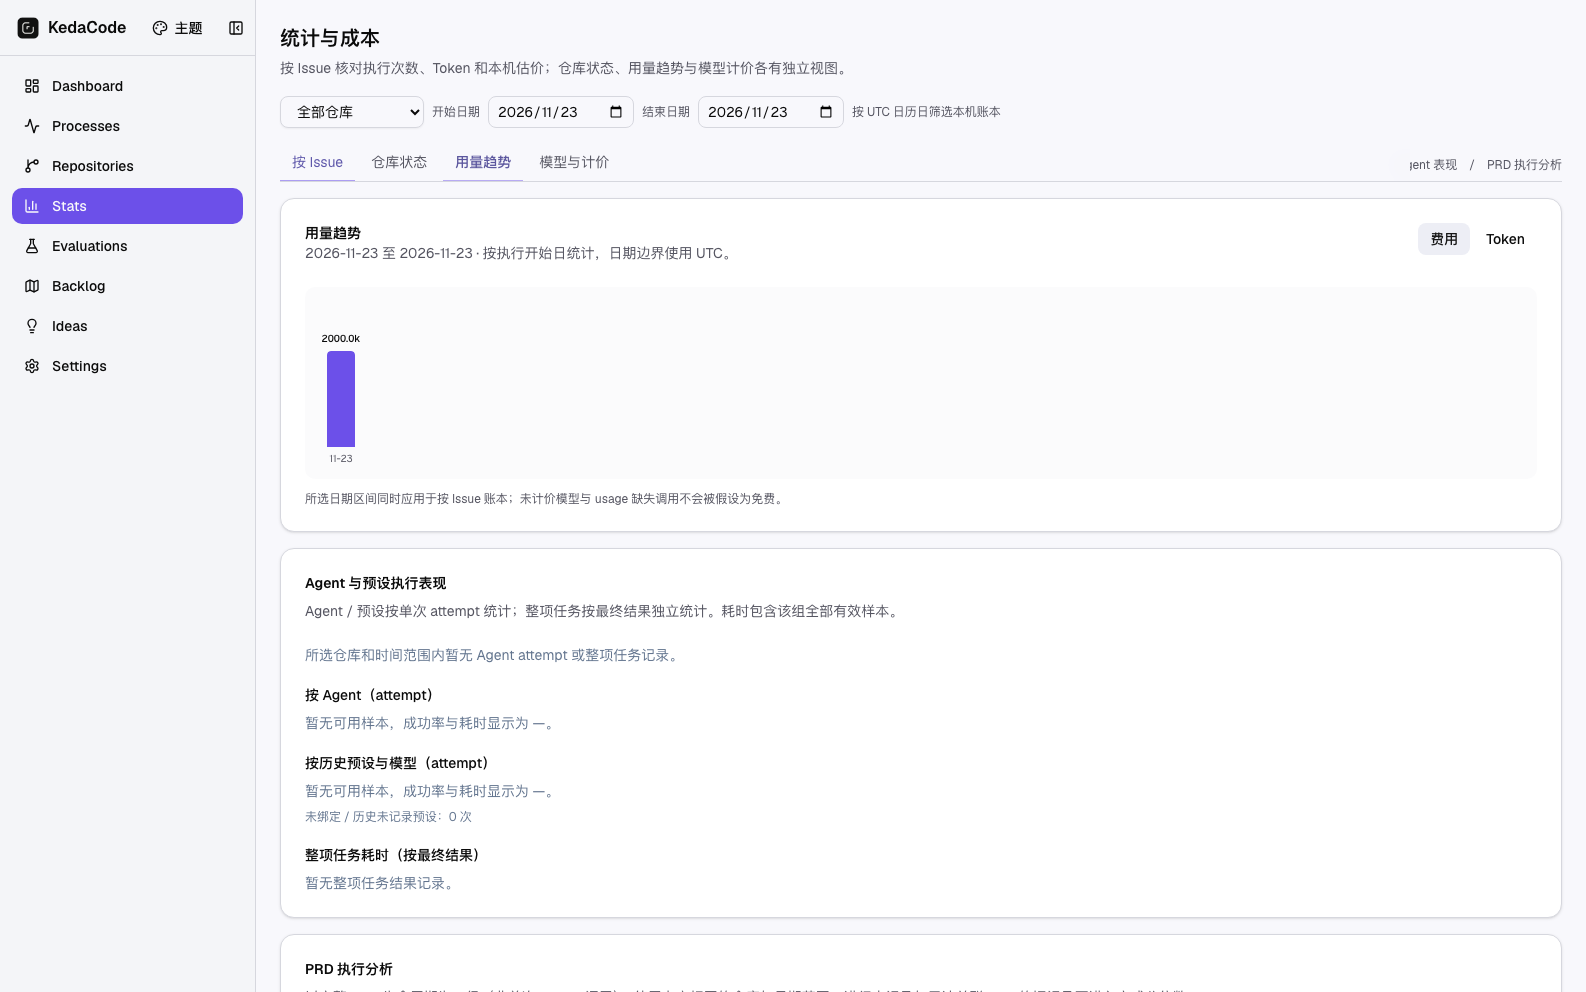
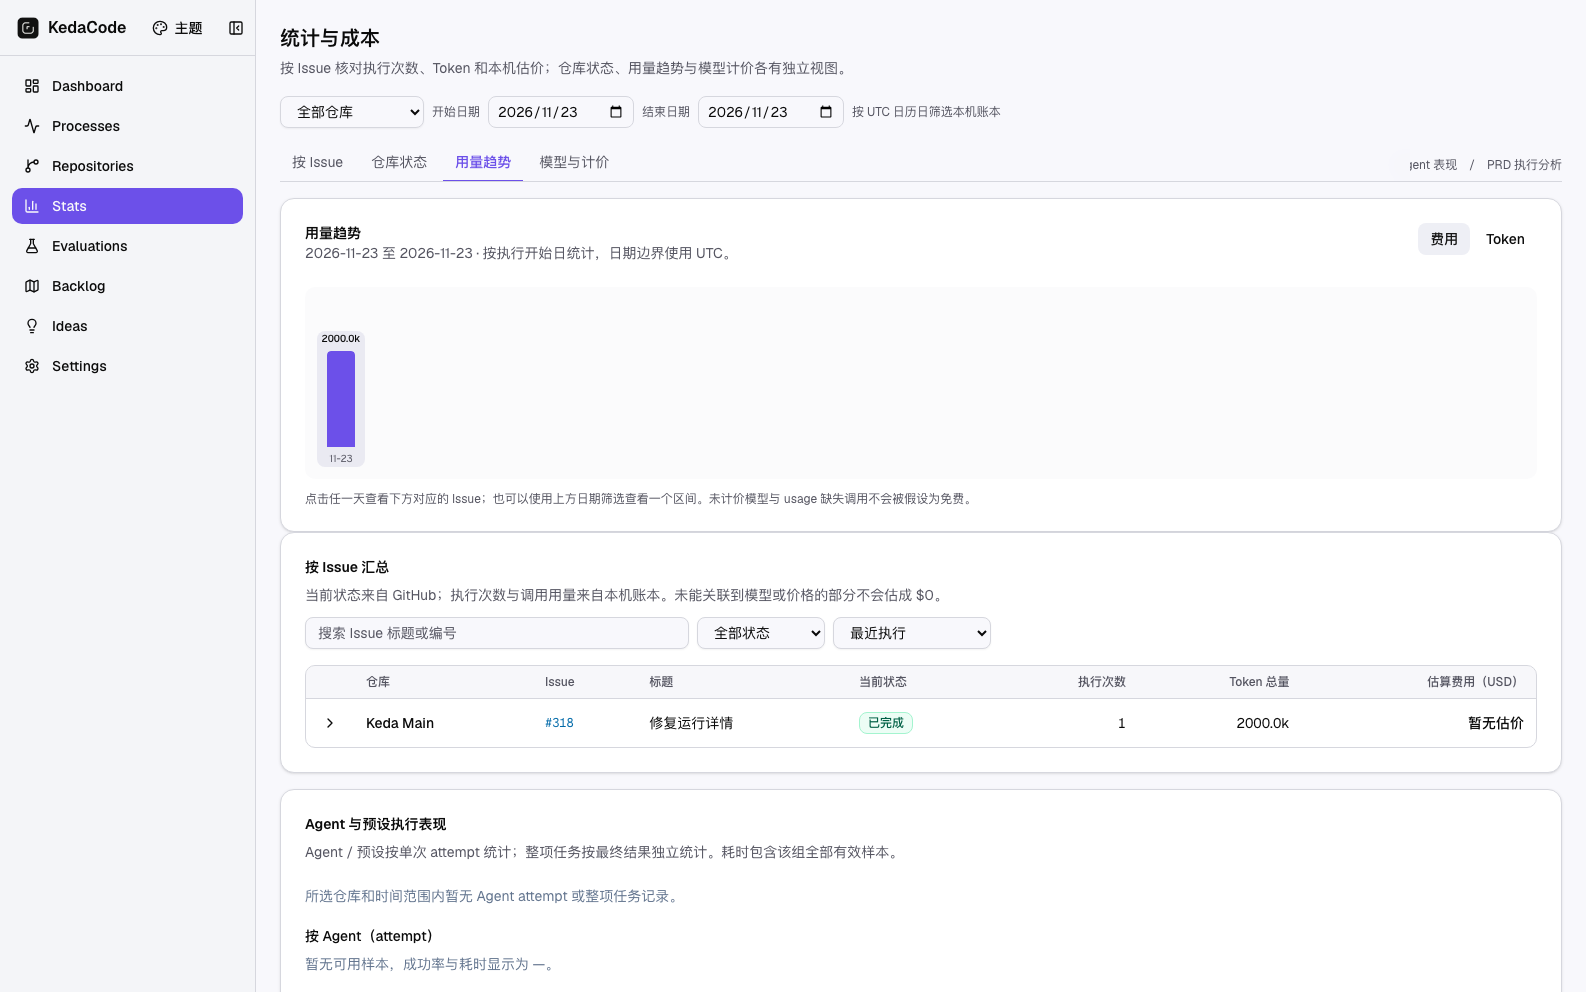
fix(stats): link trend dates to issue costs
Connect date selection to the ledger and validate production pricing from SQLite-backed Console responses.

diff --git a/tests/playwright-e2e/tests/smoke/stats-issue-cost-ledger.no-auth.spec.ts b/tests/playwright-e2e/tests/smoke/stats-issue-cost-ledger.no-auth.spec.ts
@@ -7,7 +7,7 @@
  */
 
 import { expect, test } from '../../fixtures/session.fixture'
-import { mkdir } from 'node:fs/promises'
+import { mkdir, readFile } from 'node:fs/promises'
 import { dirname, resolve } from 'node:path'
 import { fileURLToPath } from 'node:url'
 import type { Page, Route } from '@playwright/test'
@@ -301,9 +301,13 @@ async function fulfillJson(route: Route, responseBody: object): Promise<void> {
   })
 }
 
-async function routeStatsApi(page: Page): Promise<void> {
+async function routeStatsApi(
+  page: Page,
+  stats: object = ISSUE_STATS,
+  pricing: object = MODEL_PRICING,
+): Promise<void> {
   await page.route('**/api/v1/agent-runner/console/stats/issues*', (route) =>
-    fulfillJson(route, ISSUE_STATS),
+    fulfillJson(route, stats),
   )
   await page.route('**/api/v1/agent-runner/console/stats/agent-performance*', (route) =>
     fulfillJson(route, AGENT_PERFORMANCE),
@@ -312,7 +316,7 @@ async function routeStatsApi(page: Page): Promise<void> {
     fulfillJson(route, PRD_LIFECYCLE),
   )
   await page.route('**/api/v1/agent-runner/console/model-pricing', (route) =>
-    fulfillJson(route, MODEL_PRICING),
+    fulfillJson(route, pricing),
   )
 }
 
@@ -484,11 +488,11 @@ test.describe('Stats Issue cost ledger', () => {
     await page.goto('/app/stats')
     await expect(page.getByTestId('stats-issue-ledger')).toBeVisible()
 
-    await page.getByLabel('统计开始日期').fill('2026-11-23')
-    await page.getByLabel('统计结束日期').fill('2026-11-23')
+    await page.getByRole('tab', { name: '用量趋势' }).click()
+    await page.getByRole('button', { name: /查看 2026-11-23 的 Issue/ }).click()
     await expect.poll(() => requestedDateRanges.at(-1)).toBe('2026-11-23..2026-11-23')
     await expect(page.getByTestId('stats-issue-row-keda-main-318')).toContainText('1')
-    await page.getByRole('tab', { name: '用量趋势' }).click()
+    await expect(page.getByTestId('stats-issue-row-freshai-318')).toHaveCount(0)
     await expect(page.getByTestId('stats-usage-trend')).toContainText('2026-11-23 至 2026-11-23')
     await page.getByTestId('stats-trend-measure-tokens').click()
     await expect(page.getByTestId('stats-trend-measure-tokens')).toHaveAttribute('aria-pressed', 'true')
@@ -496,11 +500,33 @@ test.describe('Stats Issue cost ledger', () => {
 
     await page.getByRole('tab', { name: '模型与计价' }).click()
     await expect(page.getByTestId('stats-model-pricing')).toContainText('0%')
-    await expect(page.getByTestId('stats-model-pricing')).toContainText('2000.0k')
+    await expect(page.getByTestId('stats-model-pricing')).toContainText('0 / 2000.0k 已配置价格')
     await expect(page.getByTestId('stats-model-pricing')).toContainText('暂无估价')
     await expect(
       page.getByTestId('stats-model-pricing').getByRole('link', { name: '设置模型价格' }),
     ).toHaveAttribute('href', '/app/settings/')
     await captureEvidenceScreenshot(page, 'rv-3-trend-and-coverage-pricing.png')
   })
+  test('prices the SQLite-backed Console HTTP response in the production ledger', async ({ page }) => {
+    const fixturePath = process.env.KC_ISSUE_COST_HTTP_FIXTURE
+    test.skip(!fixturePath, 'Export the Console HTTP fixture from the SQLite integration test first.')
+    const fixture = JSON.parse(await readFile(fixturePath!, 'utf8'))
+    await routeStatsApi(page, fixture.stats, fixture.pricing)
+    await page.goto('/app/stats')
+    const issue = page.getByTestId('stats-issue-row-keda-main-7')
+    await expect(issue).toContainText('320')
+    await expect(issue).toContainText('$0.000750')
+    await expect(issue).toContainText('部分计价')
+    await page.getByTestId('stats-issue-expand-keda-main-7').click()
+    const executions = page.getByTestId('stats-issue-execution-row')
+    await expect(executions).toHaveCount(3)
+    await expect(executions.filter({ hasText: '$0.000425' })).toHaveCount(1)
+    await expect(executions.filter({ hasText: '$0.000325' })).toContainText('失败')
+    await expect(executions.filter({ hasText: '暂无估价' })).toHaveCount(1)
+    await page.getByTestId('stats-issue-detail-tab-models').click()
+    const models = page.getByTestId('stats-issue-model-usage')
+    await expect(models.getByRole('row').filter({ hasText: 'model-a' })).toContainText('$0.000750')
+    await expect(models.getByRole('row').filter({ hasText: '未识别模型' })).toContainText('暂无估价')
+  })
+
 })

diff --git a/frontend-public/components/stats/issue-cost-views.tsx b/frontend-public/components/stats/issue-cost-views.tsx
@@ -71,9 +71,11 @@ export function RepositoryStatusSection({
 export function UsageTrendSection({
   stats,
   pricingModels,
+  onSelectDay,
 }: {
   stats: IssueCostStats | null
   pricingModels: ModelTokenPricing[]
+  onSelectDay: (day: string) => void
 }) {
   const [measure, setMeasure] = useState<"cost" | "tokens">("cost")
   const dailyTotals = useMemo(() => buildDailyIssueTotals(stats?.repositories.flatMap((repository) => repository.issues) ?? [], pricingModels), [stats, pricingModels])
@@ -103,18 +105,26 @@ export function UsageTrendSection({
               const height = currentValue === 0 ? 2 : Math.max(4, (currentValue / maximumValue) * 100)
               const label = measure === "cost" ? formatDailyCost(dailyTotal) : formatTokenCount(dailyTotal.totalTokens)
               return (
-                <div key={dailyTotal.day} className="flex min-w-12 flex-col items-center gap-1" title={`${dailyTotal.day} · ${label} · ${dailyTotal.runCount} 次执行`} data-testid="stats-trend-day">
+                <button
+                  key={dailyTotal.day}
+                  type="button"
+                  className="flex min-w-12 flex-col items-center gap-1 rounded-md hover:bg-muted focus-visible:ring-2 focus-visible:ring-ring aria-pressed:bg-muted"
+                  aria-label={`查看 ${dailyTotal.day} 的 Issue，${label}，${dailyTotal.runCount} 次执行`}
+                  aria-pressed={stats.start_date === dailyTotal.day && stats.end_date === dailyTotal.day}
+                  onClick={() => onSelectDay(dailyTotal.day)}
+                  data-testid="stats-trend-day"
+                >
                   <span className="text-[10px] leading-4 font-medium tabular-nums">{label}</span>
                   <div className="flex h-24 w-7 items-end overflow-hidden rounded-t bg-slate-200/70 dark:bg-slate-800">
                     {measure === "tokens" || dailyTotal.pricedTokenCount > 0 ? <div className="w-full rounded-t bg-primary" style={{ height: `${height}%` }} /> : null}
                   </div>
                   <span className="text-[10px] leading-4 text-muted-foreground">{dailyTotal.day.slice(5)}</span>
-                </div>
+                </button>
               )
             })}
           </div>
         )}
-        <p className="mt-3 text-xs text-muted-foreground">所选日期区间同时应用于按 Issue 账本；未计价模型与 usage 缺失调用不会被假设为免费。</p>
+        <p className="mt-3 text-xs text-muted-foreground">点击任一天查看下方对应的 Issue；也可以使用上方日期筛选查看一个区间。未计价模型与 usage 缺失调用不会被假设为免费。</p>
       </CardContent>
     </Card>
   )

diff --git a/frontend-public/app/(app)/app/stats/page.tsx b/frontend-public/app/(app)/app/stats/page.tsx
@@ -280,9 +280,20 @@ export default function StatsPage() {
 
       {dateRangeError ? <p className="text-sm text-red-700 dark:text-red-300" role="alert">{dateRangeError}</p> : null}
       <div id="stats-view-panel" role="tabpanel" aria-label={STATS_VIEWS.find((view) => view.key === activeView)?.label}>
-        {activeView === "issues" ? (
+        {activeView === "trend" ? (
+          <UsageTrendSection
+            stats={selectedIssueStats}
+            pricingModels={modelPricing}
+            onSelectDay={(day) => {
+              setStartDate(day)
+              setEndDate(day)
+              setIssueStatusFilter("all")
+            }}
+          />
+        ) : null}
+        {activeView === "issues" || activeView === "trend" ? (
           <IssueCostLedgerSection
-            issues={selectedIssues}
+            issues={activeView === "trend" ? selectedIssues.filter((issue) => issue.period_run_count > 0) : selectedIssues}
             pricingModels={modelPricing}
             loading={issueStatsLoading}
             error={issueStatsError}
@@ -294,9 +305,6 @@ export default function StatsPage() {
         ) : null}
         {activeView === "repositories" ? (
           <RepositoryStatusSection stats={selectedIssueStats} onSelectStatus={chooseRepositoryStatus} />
-        ) : null}
-        {activeView === "trend" ? (
-          <UsageTrendSection stats={selectedIssueStats} pricingModels={modelPricing} />
         ) : null}
         {activeView === "pricing" ? (
           <div className="space-y-4">

diff --git a/tests/test_agent_runner_console_api.py b/tests/test_agent_runner_console_api.py
@@ -3,6 +3,7 @@
 from __future__ import annotations
 
 import json
+import os
 import sys
 from pathlib import Path
 
@@ -899,6 +900,30 @@ def test_issue_cost_stats_reads_sqlite_and_console_http_with_repo_issue_key(
     )
     assert repeated_response.status_code == 200, repeated_response.text
     assert repeated_response.json() == response.json()
+    fixture_path = os.environ.get("KC_ISSUE_COST_HTTP_FIXTURE")
+    if fixture_path:
+        pricing_path = "/api/v1/agent-runner/console/model-pricing"
+        pricing_response = client.put(
+            pricing_path,
+            json={
+                "models": [
+                    {
+                        "model_id": "model-a",
+                        "input_usd_per_million": 2,
+                        "output_usd_per_million": 4,
+                        "cache_read_usd_per_million": 1,
+                        "cache_creation_usd_per_million": 3,
+                    }
+                ]
+            },
+        )
+        assert pricing_response.status_code == 200, pricing_response.text
+        saved_pricing = client.get(pricing_path)
+        assert saved_pricing.status_code == 200, saved_pricing.text
+        Path(fixture_path).write_text(
+            json.dumps({"stats": response.json(), "pricing": saved_pricing.json()}),
+            encoding="utf-8",
+        )
     repository_rows = {row["repo_id"]: row for row in response.json()["repositories"]}
     assert response.json()["unlinked_invocation_count"] >= 1
     assert repository_rows["keda-main"]["unlinked_invocation_count"] >= 1

diff --git a/tasks/evidence/P1-FEAT-20261125-175656-console-issue-cost-stats/2026-11-26-browser-revalidation.md b/tasks/evidence/P1-FEAT-20261125-175656-console-issue-cost-stats/2026-11-26-browser-revalidation.md
@@ -1,17 +1,15 @@
 # Stats 真入口补验
 
-生产基线为 PR #452 的 `ee4c68931893dc92b700dd4616b0ab2e9049ac91`。在独立检出使用锁定依赖构建静态前端，由该提交的 `kc console` 提供真实同源路由。补验仅修改 Playwright 的价格设置链接定位器，将断言限定到模型计价区。生产代码保持基线。
+实现树（排除 PRD 与其证据目录）Git tree：`27ace7be56801ff9dc0886a13e96c9fc9bec9fe9`。
 
-- RV-1：真实 SQLite 与 Console HTTP 集成测试 1 条通过。见 [原始测试输出](rv-1-cost-api.txt)。
-- RV-2：真实 Console 页面使用确定性 Stats API 夹具，覆盖搜索、排序、筛选、仓库状态跳转、Issue 执行和模型展开、美元估价与缺失状态。见 [Issue 账本](rv-2-issue-stats.png)、[模型展开](rv-2-issue-models.png)、[仓库状态](rv-2-repository-status.png)。
-- RV-3：同一 Console 页面和夹具验证 UTC 日期选区与计价覆盖率。见 [用量趋势](rv-3-trend-and-coverage-trend.png)、[模型计价](rv-3-trend-and-coverage-pricing.png)。
-- 浏览器验证共 3 条通过。见 [原始测试输出](rv-2-3-browser.txt)。截图层级为真实 Console 用户流程，Stats API 数据使用夹具，按 [静态设计原型](../../../docs/prototypes/issue-cost-stats/index.html)核对。
+静态生产构建由同一检出的 `kc console` 提供。真实 Console 页面、AppShell、筛选和计价组件均运行，测试拦截 Stats API 响应。配套 [静态设计原型](../../../docs/prototypes/issue-cost-stats/index.html)。
 
-## 独立复核结果
+- RV-1：实际 SQLite 账本 → Console HTTP 用量响应及持久化价格响应 → 生产页面计价。用测试环境变量 `KC_ISSUE_COST_HTTP_FIXTURE` 将两个 HTTP 响应导出并原样交给 Playwright。模型单价为输入 2、输出 4、缓存读 1、缓存写 3 USD / 百万 Token。第 1 次执行手算 (100×2 + 50×4 + 10×1 + 5×3)/1M = 0.000425 USD，第 2 次 (80×2 + 40×4 + 5×1)/1M = 0.000325 USD。第 3 次模型未知，Issue 共 320 Token，已计价 290 Token，Issue 与 model-a 均为 0.000750 USD，Issue 标为部分计价。见 [SQLite/HTTP 测试输出](rv-1-cost-api.txt)、[页面计价用例](rv-2-3-browser.txt)。
+- RV-2：真实路由覆盖搜索、排序、筛选、仓库跳转、Issue 执行和模型展开、美元估价与缺失状态。见 [Issue 账本](rv-2-issue-stats.png)、[模型展开](rv-2-issue-models.png)、[仓库状态](rv-2-repository-status.png)。
+- RV-3：点击趋势图 11 月 23 日日期，断言请求的 UTC 开始和结束日期、下方 Issue 集合与期间执行；切换模型与计价，核对 0% 覆盖和 200 万 Token 分母。见 [用量趋势](rv-3-trend-and-coverage-trend.png)、[模型计价](rv-3-trend-and-coverage-pricing.png)。
 
-**BLOCKER**。真实页面截图及当前浏览器断言有效。仍需完成原始 PRD 的以下两项后再复核。
+浏览器共 4 条通过。截图验证层级为真实 Console 用户流程，数据由 Playwright 提供；RV-1 的计价数据直接来自 SQLite 夹具驱动的 HTTP 端点。
 
-1. 趋势图日期柱目前不可交互，趋势页没有随选区更新的 Issue 账本。测试只修改全局日期输入后切换页签，未覆盖趋势到 Issue 的路径。
-2. RV-1 的 SQLite 与 HTTP 测试核对用量。当前美元断言使用另写的浏览器夹具。需要从同一份真实账本 HTTP 响应接入生产计价逻辑，独立手算并核对 Issue、执行与模型分项。
+## 独立复核
 
-修复后重跑相关证据，记录最终实现树摘要，完成 Final Reconciliation。当前证据用于定位和复核，验收状态仍为验证阻塞。
+**PASS**。独立复核重新导出真实 HTTP 数据并运行测试，复算最终树为 `27ace7be56801ff9dc0886a13e96c9fc9bec9fe9`。最终浏览器输出 4 条通过，覆盖率分母断言精确核对 0 / 2000.0k。全套 Playwright TypeScript 检查仅保留既有的 idea-inbox.spec.ts(124,40) TS2339。人工验收尚未完成。

diff --git a/tasks/evidence/P1-FEAT-20261125-175656-console-issue-cost-stats/P1-FEAT-20261125-175656-console-issue-cost-stats.verifier-report.md b/tasks/evidence/P1-FEAT-20261125-175656-console-issue-cost-stats/P1-FEAT-20261125-175656-console-issue-cost-stats.verifier-report.md
@@ -1,3 +1,5 @@
+> 2026-11-26 补验已完成，独立复核 PASS。最新结果与实现树见 [补验报告](2026-11-26-browser-revalidation.md)。以下保留历史记录。
+
[1 lines of base64/hex data omitted]
 
 # 独立 Verifier 报告交接

diff --git a/tasks/evidence/P1-FEAT-20261125-175656-console-issue-cost-stats/P1-FEAT-20261125-175656-console-issue-cost-stats.evidence-report.md b/tasks/evidence/P1-FEAT-20261125-175656-console-issue-cost-stats/P1-FEAT-20261125-175656-console-issue-cost-stats.evidence-report.md
@@ -1,3 +1,5 @@
+> 2026-11-26 补验已完成，独立复核 PASS。最新结果与实现树见 [补验报告](2026-11-26-browser-revalidation.md)。以下保留历史记录。
+
 ## 2026-11-25 审查复验与可复现绑定
 
 RV-1 在当前实现树重跑，原始标准输出如下（完整本地产物 `rv-1-cost-api.txt` 由 runner 按证据发布流程上传）：
